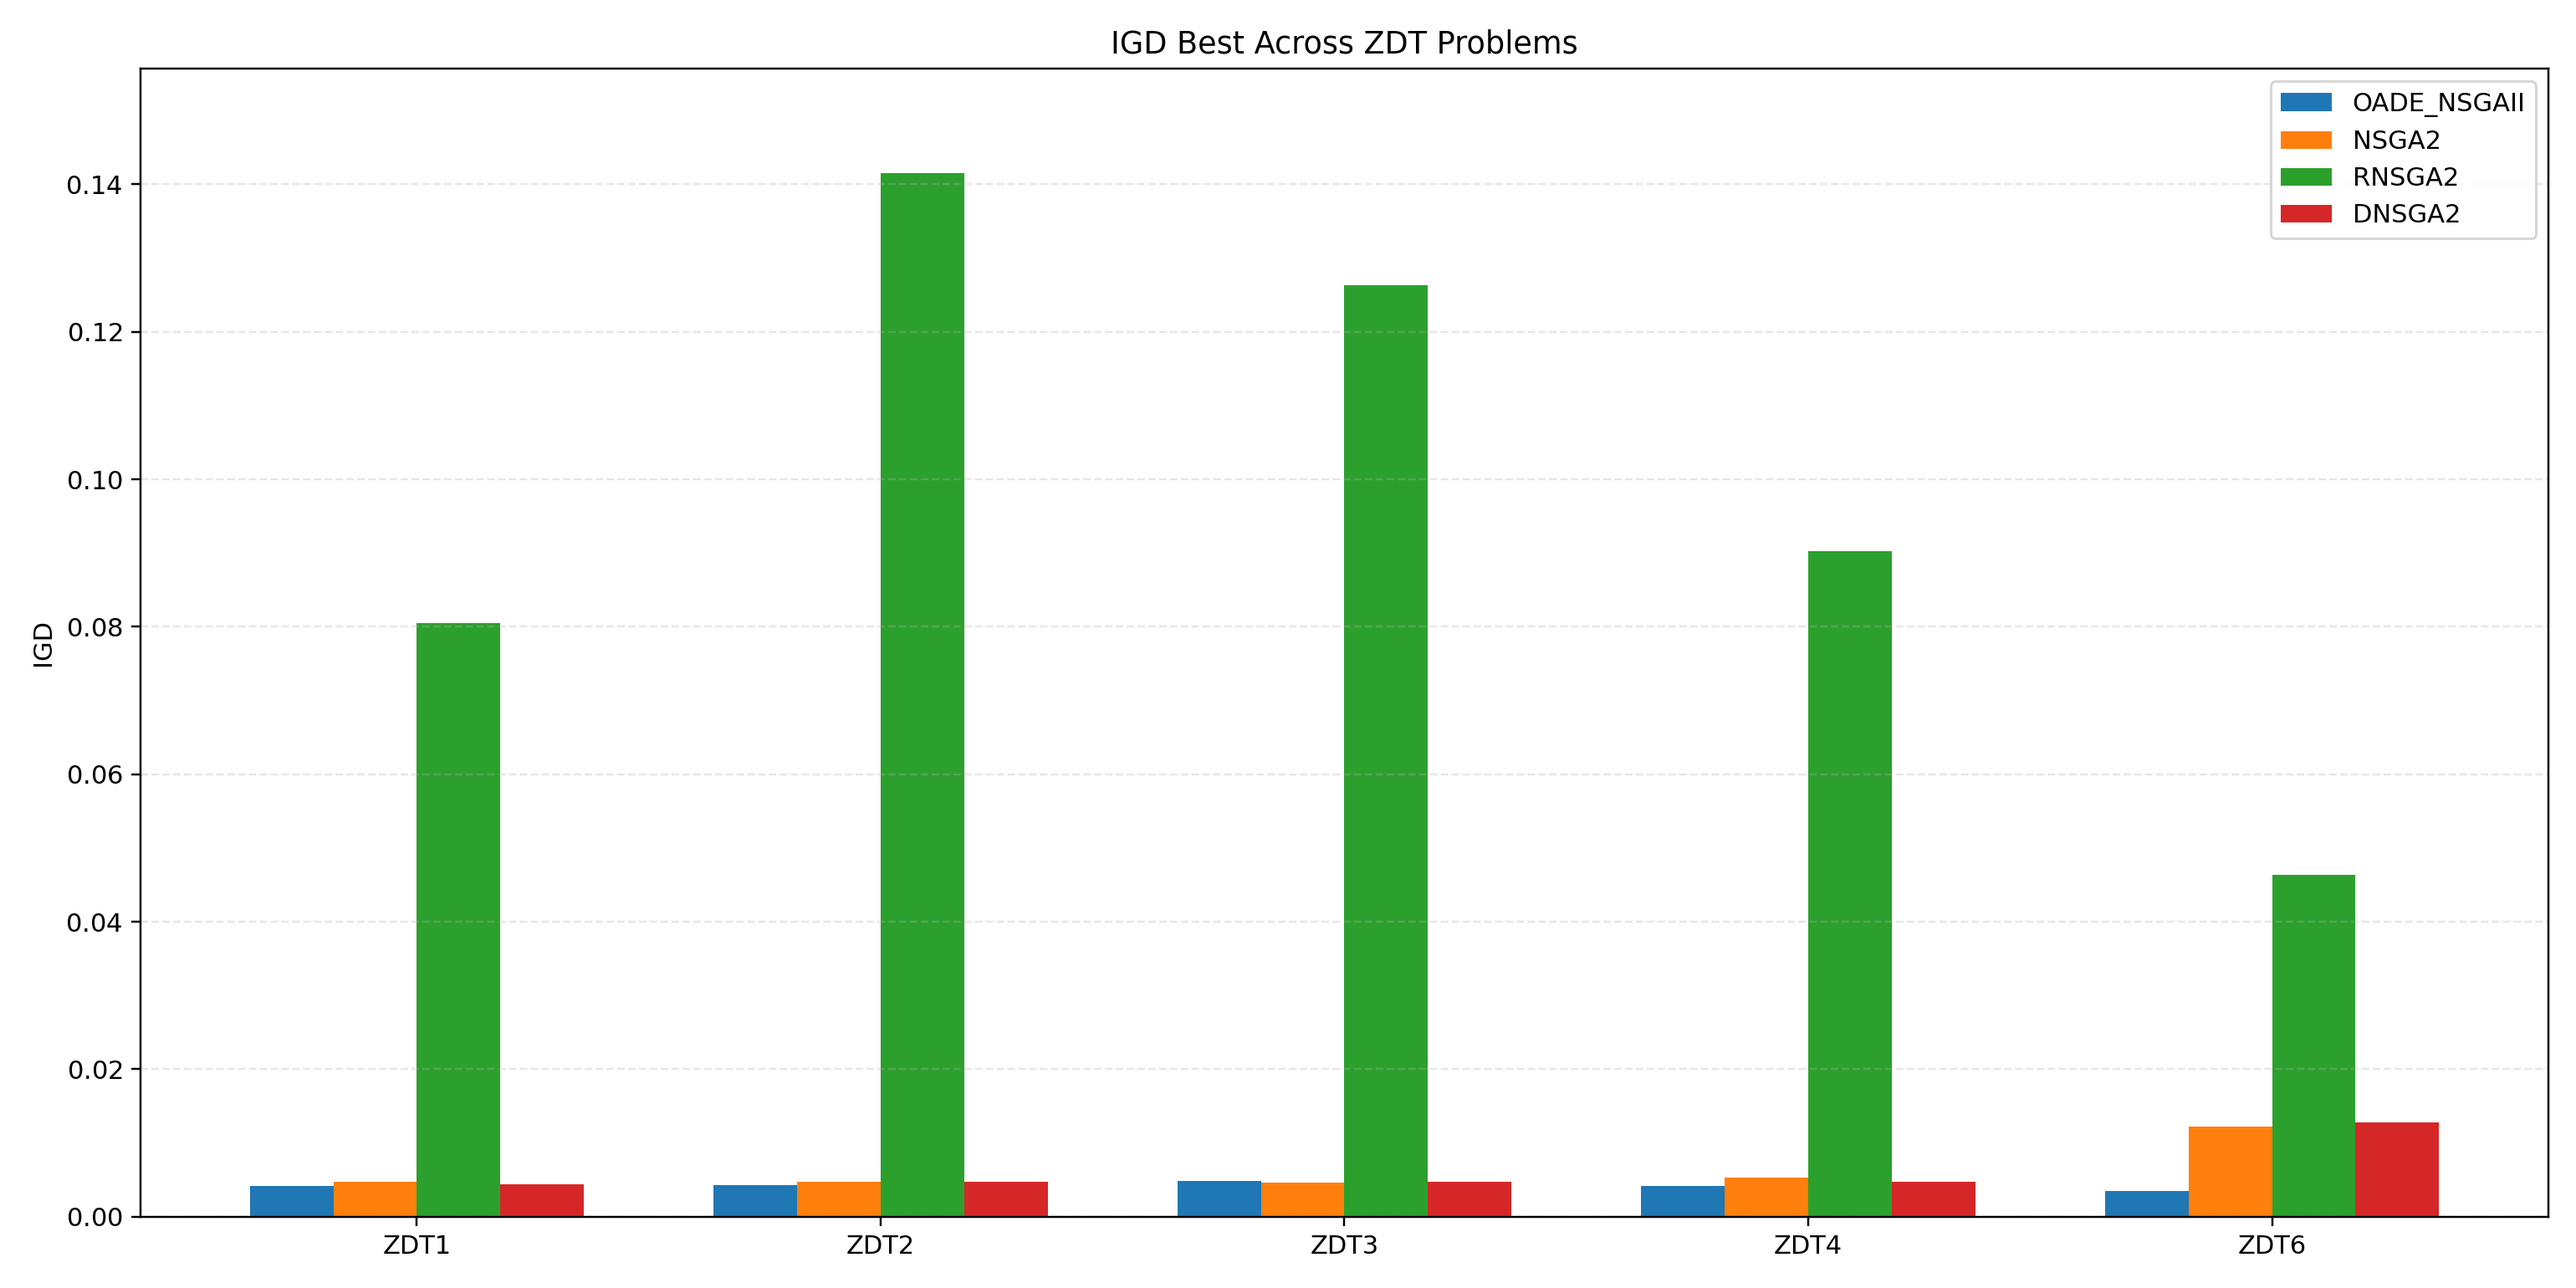
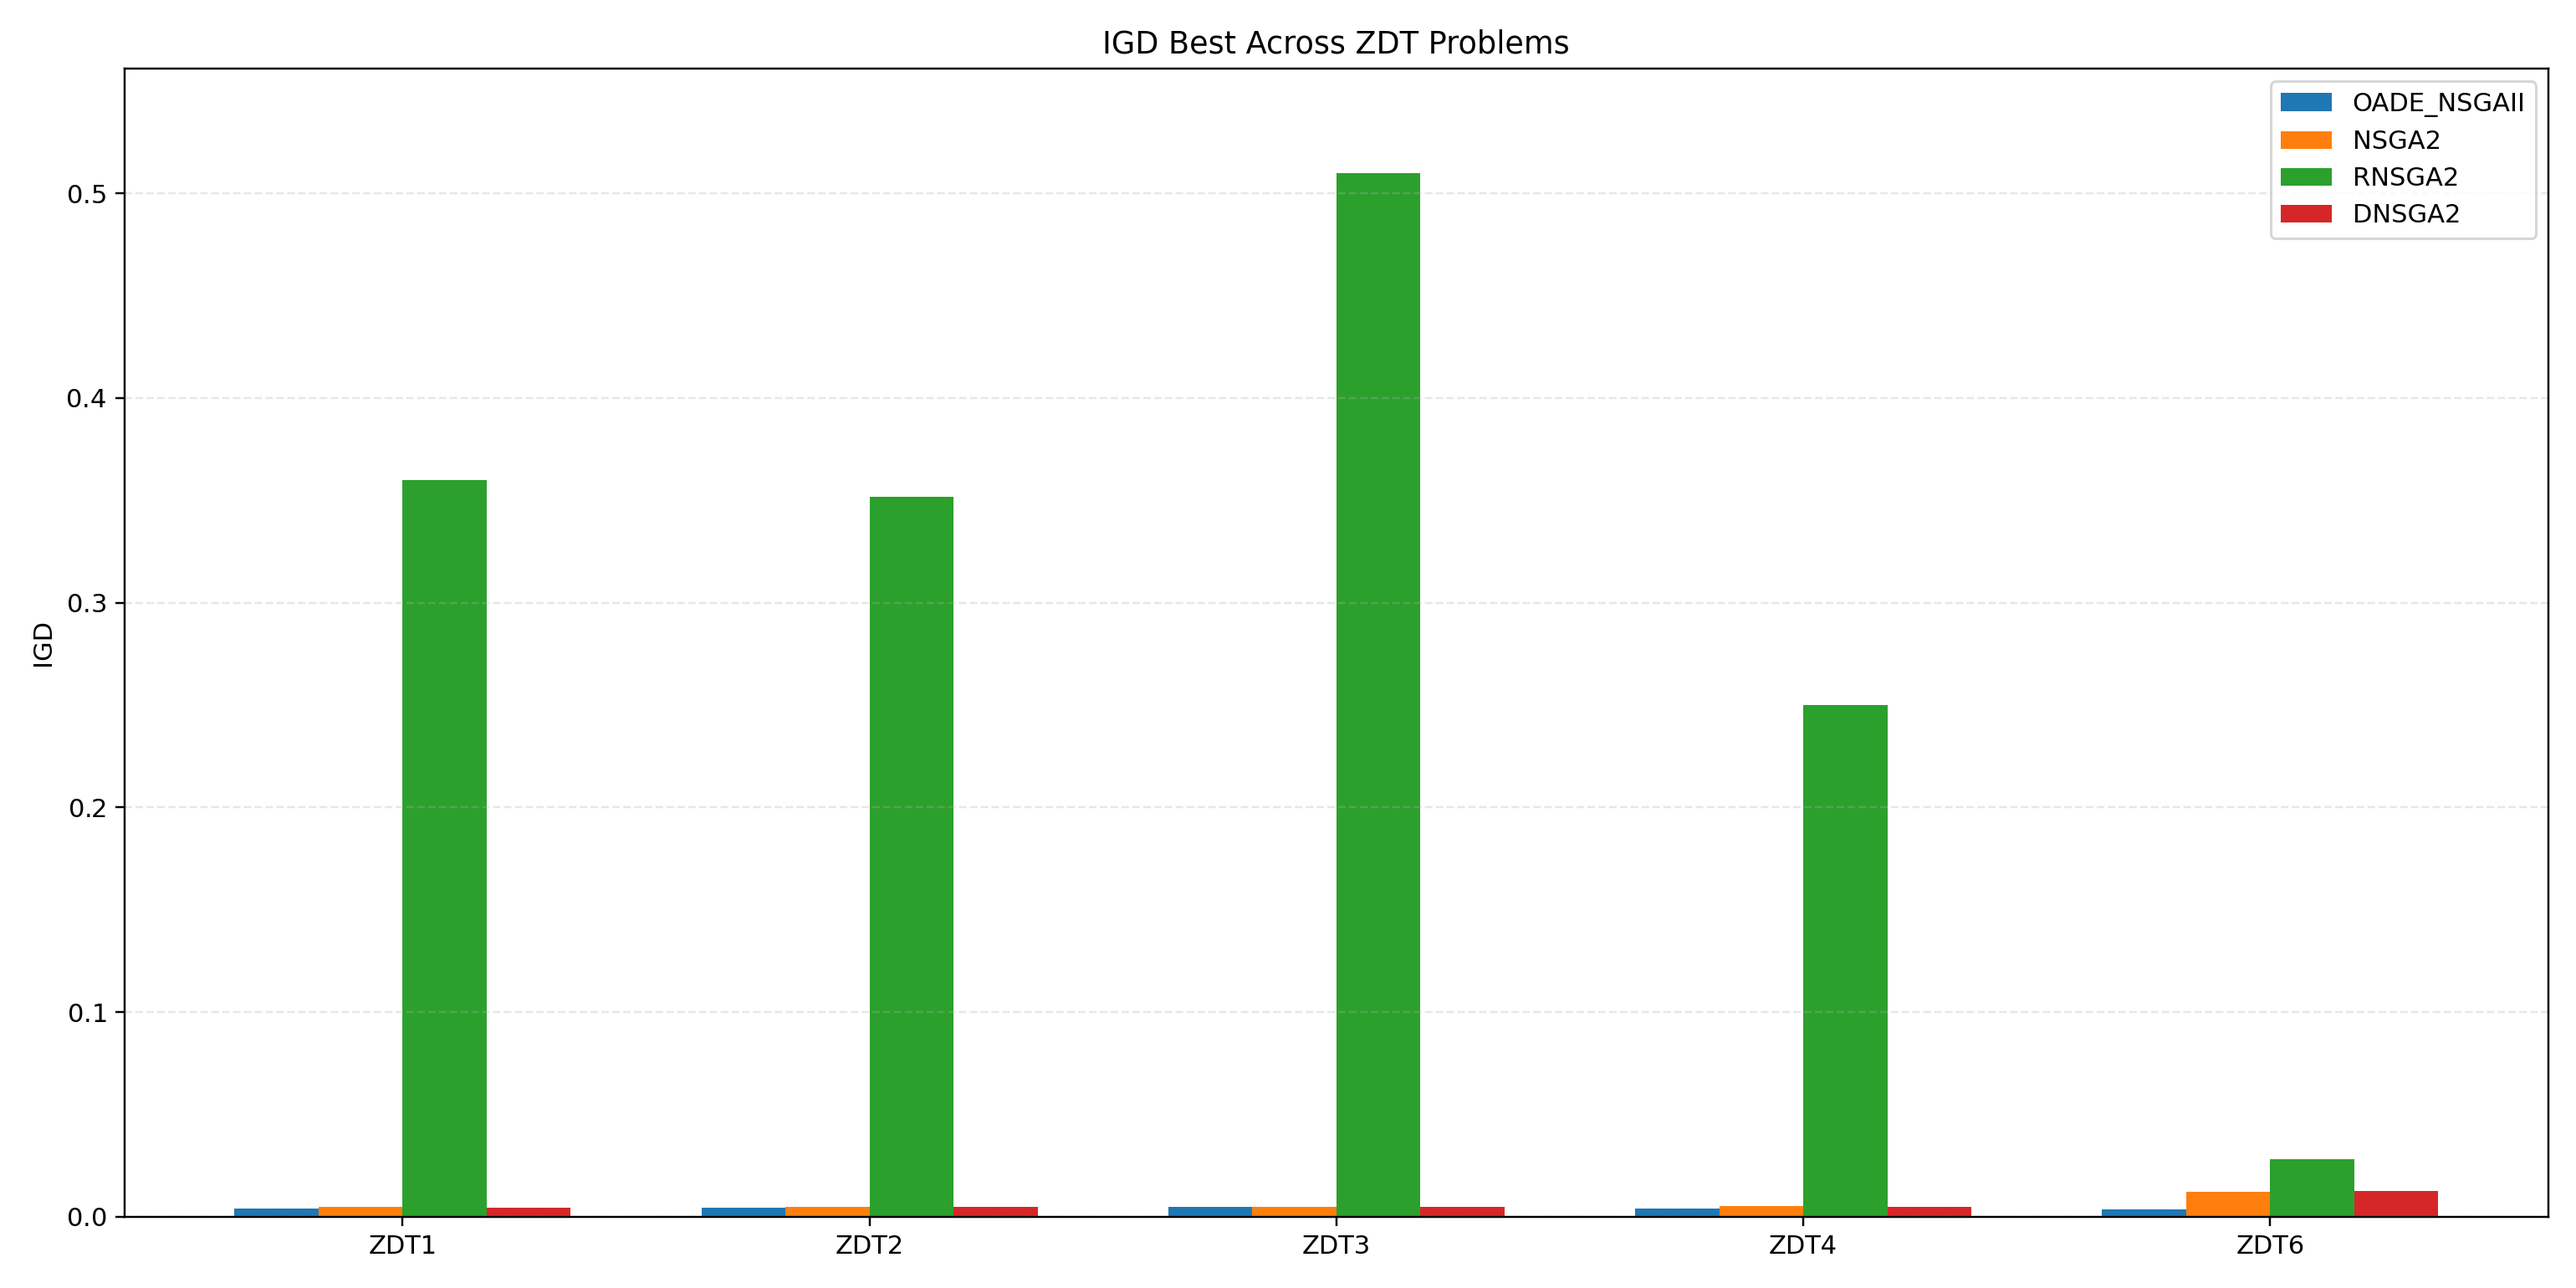
Enhance algorithm validation and metrics reporting; update benchmark results for ZDT problems

diff --git a/benchmark_pymoo_compare.py b/benchmark_pymoo_compare.py
@@ -13,6 +13,7 @@ from __future__ import annotations
 import argparse
 import csv
 import json
+import random
 from dataclasses import dataclass
 from pathlib import Path
 from typing import Dict, List
@@ -36,6 +37,9 @@ class RunMetrics:
     hv: float
 
 
+SUPPORTED_ALGORITHMS = ("OADE_NSGAII", "NSGA2", "RNSGA2", "DNSGA2")
+
+
 def non_dominated(F: np.ndarray) -> np.ndarray:
     nds = NonDominatedSorting()
     front = nds.do(F, only_non_dominated_front=True)
@@ -49,8 +53,46 @@ def make_initial_population(problem, pop_size: int, seed: int) -> np.ndarray:
     return rng.uniform(xl, xu, size=(pop_size, problem.n_var))
 
 
+def validate_algorithms(algorithms: List[str]) -> List[str]:
+    unknown = [name for name in algorithms if name not in SUPPORTED_ALGORITHMS]
+    if unknown:
+        raise ValueError(
+            f"Unsupported algorithms in config: {unknown}. "
+            f"Supported: {list(SUPPORTED_ALGORITHMS)}"
+        )
+    return algorithms
+
+
+def make_rnsga2_ref_points(problem, initial_x: np.ndarray) -> np.ndarray:
+    """
+    Tạo aspiration points cho R-NSGA-II từ objective values của quần thể ban đầu.
+    Không dùng Pareto front thật để tránh lợi thế oracle khi benchmark.
+    """
+    F0 = np.asarray(problem.evaluate(initial_x))
+    if F0.ndim != 2:
+        raise ValueError("problem.evaluate(initial_x) must return a 2D objective matrix")
+
+    f_min = F0.min(axis=0)
+    f_max = F0.max(axis=0)
+    span = np.where((f_max - f_min) < 1e-12, 1.0, f_max - f_min)
+    n_obj = F0.shape[1]
+
+    if n_obj == 1:
+        return (f_min + 0.1 * span)[None, :]
+
+    rp1 = f_min + 0.2 * span
+    rp2 = f_min + 0.2 * span
+    rp1[0] = f_min[0] + 0.05 * span[0]
+    rp2[0] = f_min[0] + 0.45 * span[0]
+    rp1[-1] = f_min[-1] + 0.45 * span[-1]
+    rp2[-1] = f_min[-1] + 0.05 * span[-1]
+
+    return np.vstack([rp1, rp2])
+
+
 def run_oade(problem, pop_size: int, n_gen: int, initial_x: np.ndarray, seed: int, oade_cfg: dict) -> np.ndarray:
     np.random.seed(seed)
+    random.seed(seed)
     solver = OADE_NSGAII(ProblemWrapper(problem), pop_size=pop_size, n_gen=n_gen)
 
     solver.stagnation_patience = int(oade_cfg["stagnation_patience"])
@@ -71,8 +113,7 @@ def run_nsga2(problem, pop_size: int, n_gen: int, initial_x: np.ndarray, seed: i
     return non_dominated(res.F)
 
 
-def run_rnsga2(problem, pop_size: int, n_gen: int, initial_x: np.ndarray, seed: int, pf: np.ndarray) -> np.ndarray:
-    ref_points = np.vstack([pf[0], pf[len(pf) // 2]])
+def run_rnsga2(problem, pop_size: int, n_gen: int, initial_x: np.ndarray, seed: int, ref_points: np.ndarray) -> np.ndarray:
     algorithm = RNSGA2(ref_points=ref_points, pop_size=pop_size, sampling=initial_x)
     res = minimize(problem, algorithm, termination=("n_gen", n_gen), seed=seed, verbose=False)
     return non_dominated(res.F)
@@ -89,12 +130,18 @@ def summarize(metrics: Dict[str, List[RunMetrics]]) -> Dict[str, Dict[str, float
     for name, values in metrics.items():
         igd_values = np.array([m.igd for m in values], dtype=float)
         hv_values = np.array([m.hv for m in values], dtype=float)
+        if len(values) >= 2:
+            igd_std = float(np.std(igd_values, ddof=1))
+            hv_std = float(np.std(hv_values, ddof=1))
+        else:
+            igd_std = 0.0
+            hv_std = 0.0
         out[name] = {
             "igd_mean": float(np.mean(igd_values)),
-            "igd_std": float(np.std(igd_values, ddof=1)),
+            "igd_std": igd_std,
             "igd_best": float(np.min(igd_values)),
             "hv_mean": float(np.mean(hv_values)),
-            "hv_std": float(np.std(hv_values, ddof=1)),
+            "hv_std": hv_std,
             "hv_best": float(np.max(hv_values)),
         }
     return out
@@ -126,22 +173,27 @@ def run_one_problem(problem_name: str, n_var: int | None, cfg: dict, out_dir: Pa
     pop_size = int(cfg["global"]["pop_size"])
     n_gen = int(cfg["global"]["n_gen"])
     seed_base = int(cfg["global"]["seed_base"])
-    algorithms = list(cfg["algorithms"])
+    algorithms = validate_algorithms(list(cfg["algorithms"]))
 
     metrics: Dict[str, List[RunMetrics]] = {name: [] for name in algorithms}
 
     for run_idx in range(runs):
         seed = seed_base + run_idx
         initial_x = make_initial_population(problem, pop_size, seed)
+        rnsga2_ref_points = make_rnsga2_ref_points(problem, initial_x)
 
-        fronts = {
-            "OADE_NSGAII": run_oade(problem, pop_size, n_gen, initial_x, seed, cfg["oade"]),
-            "NSGA2": run_nsga2(problem, pop_size, n_gen, initial_x, seed),
-            "RNSGA2": run_rnsga2(problem, pop_size, n_gen, initial_x, seed, pf),
-            "DNSGA2": run_dnsga2(problem, pop_size, n_gen, initial_x, seed),
-        }
+        for name in algorithms:
+            if name == "OADE_NSGAII":
+                front = run_oade(problem, pop_size, n_gen, initial_x, seed, cfg["oade"])
+            elif name == "NSGA2":
+                front = run_nsga2(problem, pop_size, n_gen, initial_x, seed)
+            elif name == "RNSGA2":
+                front = run_rnsga2(problem, pop_size, n_gen, initial_x, seed, rnsga2_ref_points)
+            elif name == "DNSGA2":
+                front = run_dnsga2(problem, pop_size, n_gen, initial_x, seed)
+            else:
+                raise ValueError(f"Unsupported algorithm: {name}")
 
-        for name, front in fronts.items():
             metrics[name].append(RunMetrics(igd=float(igd_indicator(front)), hv=float(hv_indicator(front))))
 
         print(f"[{problem_name}] run {run_idx + 1}/{runs} done (seed={seed}).")

diff --git a/main_src/operators.py b/main_src/operators.py
@@ -89,8 +89,11 @@ def get_neighborhood_indices(population: List[Individual], n_neighbors: int) -> 
     F_norm = (F - f_min) / spread
 
     dists = cdist(F_norm, F_norm)
-    k     = min(n_neighbors, len(population) - 1)
-    return np.argpartition(dists, kth=k, axis=1)[:, :k]
+    np.fill_diagonal(dists, np.inf)  # loại chính nó khỏi tập láng giềng
+    k = min(n_neighbors, len(population) - 1)
+    if k <= 0:
+        return np.empty((len(population), 0), dtype=int)
+    return np.argpartition(dists, kth=k - 1, axis=1)[:, :k]
 
 
 # Đột biến DE thích nghi
